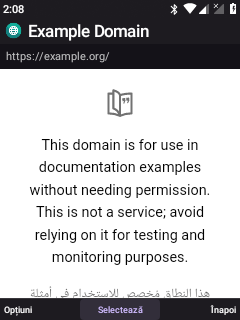
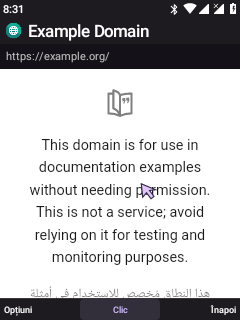
Add a built-in keypad cursor to the web browser

diff --git a/android81/visual-shell/tests/WebBrowserDeviceTests.java b/android81/visual-shell/tests/WebBrowserDeviceTests.java
@@ -20,6 +20,7 @@ public final class WebBrowserDeviceTests extends Instrumentation {
     private volatile boolean running;
     private int checks;
     private final AtomicInteger images=new AtomicInteger();
+    private final AtomicInteger links=new AtomicInteger();
     private PowerManager.WakeLock awake;
     private void check(boolean value,String why){if(!value)throw new AssertionError(why);checks++;}
     private UiAutomation automation(){return getUiAutomation(UiAutomation.FLAG_DONT_SUPPRESS_ACCESSIBILITY_SERVICES);}
@@ -36,14 +37,23 @@ public final class WebBrowserDeviceTests extends Instrumentation {
     private AccessibilityNodeInfo await(String text){long end=SystemClock.elapsedRealtime()+20000;AccessibilityNodeInfo found;do{found=node(text);if(found!=null)return found;SystemClock.sleep(100);}while(SystemClock.elapsedRealtime()<end);throw new AssertionError("Visible browser content missing: "+text);}
     private void visible(String text){AccessibilityNodeInfo found=await(text);found.recycle();checks++;}
     private void key(int code){long now=SystemClock.uptimeMillis();check(automation().injectInputEvent(new KeyEvent(now,now,0,code,0),true),"key down injected");check(automation().injectInputEvent(new KeyEvent(now,SystemClock.uptimeMillis(),1,code,0),true),"key up injected");SystemClock.sleep(80);}
+    private void held(int code,long duration,boolean canceled){
+        long now=SystemClock.uptimeMillis();check(automation().injectInputEvent(new KeyEvent(now,now,0,code,0),true),"held down injected");
+        SystemClock.sleep(duration);
+        check(automation().injectInputEvent(new KeyEvent(now,SystemClock.uptimeMillis(),1,code,0,0,-1,0,canceled?KeyEvent.FLAG_CANCELED:0),true),"held up injected");SystemClock.sleep(250);
+    }
+    private void open(String url){getTargetContext().startActivity(new Intent(getTargetContext(),WebBrowserActivity.class).setData(Uri.parse(url)).addFlags(Intent.FLAG_ACTIVITY_NEW_TASK));}
+    private void close(){key(KeyEvent.KEYCODE_MENU);visible("Cursor ·");for(int i=0;i<10;i++)key(KeyEvent.KEYCODE_DPAD_DOWN);visible("Închide");key(KeyEvent.KEYCODE_DPAD_CENTER);}
     private void fixture()throws IOException{
         server=new ServerSocket(0,4,InetAddress.getByName("127.0.0.1"));running=true;
         serving=new Thread(new Runnable(){public void run(){while(running)try(Socket socket=server.accept()){
             socket.setSoTimeout(3000);BufferedReader input=new BufferedReader(new InputStreamReader(socket.getInputStream(),"UTF-8"));String request=input.readLine();if(request==null)continue;String path=request.split(" ")[1];for(int i=0;i<40;i++){String line=input.readLine();if(line==null||line.isEmpty())break;}
             String type="text/html; charset=utf-8",body;
             if(path.equals("/image.svg")){images.incrementAndGet();type="image/svg+xml";body="<svg xmlns='http://www.w3.org/2000/svg' width='60' height='36'><rect width='60' height='36' fill='#6847aa'/><circle cx='30' cy='18' r='12' fill='#80d7cb'/></svg>";}
-            else if(path.equals("/next"))body="<!doctype html><meta name='viewport' content='width=device-width'><title>A doua pagină</title><p>Navigare reușită</p>";
-            else body="<!doctype html><meta charset='utf-8'><meta name='viewport' content='width=device-width'><title>KeyShell web test</title><body style='font:16px sans-serif'><span id='js'></span><script>document.getElementById('js').textContent='Script activ';</script><noscript>Script oprit</noscript><p id='image'>Se încarcă imaginea</p><img src='/image.svg' alt='Imagine test' onload=\"document.getElementById('image').textContent='Imagine încărcată'\"><p><a href='/next'>Pagina următoare</a></p></body>";
+            else if(path.equals("/next")){links.incrementAndGet();body="<!doctype html><meta charset='utf-8'><meta name='viewport' content='width=device-width'><title>A doua pagină</title><p>Navigare reușită</p>";}
+            else if(path.equals("/scroll"))body="<!doctype html><meta charset='utf-8'><meta name='viewport' content='width=device-width'><title>Test derulare</title><body style='height:1800px'><div id='scrolled' style='position:fixed;top:0;background:white'>Început pagină</div><script>onscroll=function(){document.getElementById('scrolled').textContent='Derulare confirmată: '+Math.round(scrollY)}</script></body>";
+            else if(path.equals("/editor"))body="<!doctype html><meta charset='utf-8'><meta name='viewport' content='width=device-width'><title>Test editor</title><input aria-label='Scrie aici' style='position:fixed;left:10%;width:75%;top:40%;height:20%' oninput=\"document.getElementById('value').textContent=this.value.length?'Text primit':'Câmp gol'\"><p id='value'>Câmp gol</p>";
+            else body="<!doctype html><meta charset='utf-8'><meta name='viewport' content='width=device-width'><title>KeyShell web test</title><body style='font:16px sans-serif'><span id='js'></span><script>document.getElementById('js').textContent='Script activ';</script><noscript>Script oprit</noscript><p id='image'>Se încarcă imaginea</p><img src='/image.svg' alt='Imagine test' onload=\"document.getElementById('image').textContent='Imagine încărcată'\"><a style='position:fixed;left:5%;right:5%;top:45%;padding:12px 0;background:#ddd' href='/next'>Pagina următoare</a></body>";
             byte[] bytes=body.getBytes("UTF-8");OutputStream out=socket.getOutputStream();out.write(("HTTP/1.1 200 OK\r\nContent-Type: "+type+"\r\nContent-Length: "+bytes.length+"\r\nConnection: close\r\nCache-Control: no-store\r\n\r\n").getBytes("US-ASCII"));out.write(bytes);out.flush();
         }catch(IOException error){if(!running)return;}}},"KeyShell-web-fixture");serving.setDaemon(true);serving.start();
     }
@@ -58,13 +68,21 @@ public final class WebBrowserDeviceTests extends Instrumentation {
         check(!WebBrowserActivity.allowed("content://ro.leo.visual.files/leo/private"),"content navigation rejected");
         check(!WebBrowserActivity.allowed("https://name:password@example.org/"),"URL credentials rejected");
         fixture();String url="http://127.0.0.1:"+server.getLocalPort()+"/";
-        getTargetContext().startActivity(new Intent(getTargetContext(),WebBrowserActivity.class).setData(Uri.parse(url)).addFlags(Intent.FLAG_ACTIVITY_NEW_TASK|Intent.FLAG_ACTIVITY_CLEAR_TOP|Intent.FLAG_ACTIVITY_SINGLE_TOP));
+        open(url);
         visible("KeyShell web test");visible("Script activ");visible("Imagine încărcată");check(images.get()>0,"image requested over HTTP");capture("web-browser-fixture.png");
-        AccessibilityNodeInfo link=await("Pagina următoare");while(!link.isClickable()&&link.getParent()!=null){AccessibilityNodeInfo parent=link.getParent();link.recycle();link=parent;}try{check(link.performAction(AccessibilityNodeInfo.ACTION_CLICK),"HTML link activated");}finally{link.recycle();}
+        visible("Clic");held(KeyEvent.KEYCODE_DPAD_CENTER,500,true);check(links.get()==0,"canceled OK did not click");
+        key(KeyEvent.KEYCODE_DPAD_LEFT);key(KeyEvent.KEYCODE_DPAD_RIGHT);
+        held(KeyEvent.KEYCODE_DPAD_CENTER,650,false);
         visible("Navigare reușită");key(KeyEvent.KEYCODE_BACK);visible("Script activ");
-        key(KeyEvent.KEYCODE_MENU);visible("JavaScript · pornit");
-        for(int i=0;i<6;i++)key(KeyEvent.KEYCODE_DPAD_DOWN);key(KeyEvent.KEYCODE_DPAD_CENTER);visible("Script oprit");
-        key(KeyEvent.KEYCODE_MENU);visible("JavaScript · oprit");for(int i=0;i<9;i++)key(KeyEvent.KEYCODE_DPAD_DOWN);key(KeyEvent.KEYCODE_DPAD_CENTER);
+        check(links.get()==1,"held OK activated link once");
+        key(KeyEvent.KEYCODE_POUND);visible("Selectează");key(KeyEvent.KEYCODE_MENU);visible("Cursor · oprit");key(KeyEvent.KEYCODE_DPAD_CENTER);visible("Clic");
+        key(KeyEvent.KEYCODE_MENU);visible("Cursor · pornit");visible("JavaScript · pornit");
+        for(int i=0;i<7;i++)key(KeyEvent.KEYCODE_DPAD_DOWN);key(KeyEvent.KEYCODE_DPAD_CENTER);visible("Script oprit");close();
+        open(url+"scroll");visible("Început pagină");held(KeyEvent.KEYCODE_DPAD_DOWN,1400,false);visible("Derulare confirmată");SystemClock.sleep(300);
+        AccessibilityNodeInfo scrolled=await("Derulare confirmată");String stopped;try{CharSequence value=scrolled.getText();stopped=(value!=null?value:scrolled.getContentDescription()).toString();}finally{scrolled.recycle();}
+        SystemClock.sleep(350);visible(stopped);capture("web-browser-scroll.png");close();
+        open(url+"editor");visible("Câmp gol");key(KeyEvent.KEYCODE_DPAD_CENTER);visible("Selectează");SystemClock.sleep(450);key(KeyEvent.KEYCODE_2);key(KeyEvent.KEYCODE_DPAD_CENTER);visible("Text primit");capture("web-browser-editor.png");
+        key(KeyEvent.KEYCODE_MENU);visible("Cursor · oprit");key(KeyEvent.KEYCODE_DPAD_CENTER);visible("Clic");close();
         result.putString("result","PASS "+checks+" graphical browser checks");code=-1;
     }catch(Throwable error){result.putString("result","FAIL after "+checks+" checks, image requests="+images.get()+": "+error);StringWriter text=new StringWriter();error.printStackTrace(new PrintWriter(text));result.putString("trace",text.toString());try{capture("web-browser-failure.png");}catch(Throwable ignored){}
     }finally{running=false;if(server!=null)try{server.close();}catch(IOException ignored){}if(awake!=null&&awake.isHeld())awake.release();}

diff --git a/android81/visual-shell/WebBrowserActivity.java b/android81/visual-shell/WebBrowserActivity.java
@@ -17,6 +17,7 @@ public final class WebBrowserActivity extends LeoActivity {
     private WebView web;
     private ProgressBar progress;
     private TextView location;
+    private WebCursorView cursor;
     private String current="https://example.org/";
     private boolean javascript=true;
     private int zoom=120;
@@ -52,28 +53,36 @@ public final class WebBrowserActivity extends LeoActivity {
                 public boolean onShowFileChooser(WebView view,ValueCallback<Uri[]> callback,FileChooserParams params){callback.onReceiveValue(null);return true;}
             });
             web.setDownloadListener(new DownloadListener(){public void onDownloadStart(final String url,String agent,String disposition,String mime,long bytes){download(url);}});
-            root.addView(web,new LinearLayout.LayoutParams(-1,0,1));
+            FrameLayout page=new FrameLayout(this);
+            page.addView(web,new FrameLayout.LayoutParams(-1,-1));
+            cursor=new WebCursorView(this,web,new WebCursorView.Listener(){public void changed(boolean enabled){cursorFooter();}});
+            if(state!=null)cursor.restore(state.getBoolean("cursor",true),state.getFloat("cursor_x",.5f),state.getFloat("cursor_y",.5f));
+            page.addView(cursor,new FrameLayout.LayoutParams(-1,-1));
+            root.addView(page,new LinearLayout.LayoutParams(-1,0,1));
             left=new Runnable(){public void run(){menu();}};
-            back=new Runnable(){public void run(){if(web.canGoBack())web.goBack();else finish();}};
-            footer(L.t("Opțiuni"),L.t("Selectează"),L.t("Înapoi"));
+            back=new Runnable(){public void run(){cursor.suspend();if(web.canGoBack())web.goBack();else finish();}};
+            cursorFooter();
             if(state==null||web.restoreState(state)==null)load(current);
-            web.requestFocus();
+            if(cursor.enabled())cursor.requestFocus();else web.requestFocus();
         }catch(RuntimeException unavailable){errorPage(L.t("Browser web"),L.t("Motorul web nu poate porni"),new Runnable(){public void run(){recreate();}});}
     }
     static boolean allowed(String url){try{BrowserRules.checked(url);return true;}catch(IOException invalid){return false;}}
-    private void load(String url){if(!allowed(url)){notice(L.t("Doar adrese HTTP / HTTPS"));return;}current=url;location.setText(url);web.loadUrl(url);}
+    private void load(String url){if(!allowed(url)){notice(L.t("Doar adrese HTTP / HTTPS"));return;}if(cursor!=null)cursor.suspend();current=url;location.setText(url);web.loadUrl(url);}
     protected void onNewIntent(Intent intent){super.onNewIntent(intent);setIntent(intent);if(intent.getData()!=null&&web!=null)load(intent.getDataString());}
-    protected void onSaveInstanceState(Bundle state){state.putString("url",current);state.putInt("zoom",zoom);state.putBoolean("javascript",javascript);if(web!=null)web.saveState(state);super.onSaveInstanceState(state);}
+    protected void onSaveInstanceState(Bundle state){state.putString("url",current);state.putInt("zoom",zoom);state.putBoolean("javascript",javascript);if(cursor!=null){state.putBoolean("cursor",cursor.enabled());state.putFloat("cursor_x",cursor.fractionX());state.putFloat("cursor_y",cursor.fractionY());}if(web!=null)web.saveState(state);super.onSaveInstanceState(state);}
+    private void cursorFooter(){footer(L.t("Opțiuni"),L.t(cursor.enabled()?"Clic":"Selectează"),L.t("Înapoi"));}
     private void address(){startActivity(new Intent(this,BrowserHubActivity.class).putExtra("edit_address",true).putExtra("address",current));}
     private void menu(){
-        options(L.t("Browser web"),new String[]{L.t("Adresă / căutare"),L.t("Reîncarcă"),L.t("Oprește încărcarea"),L.t("Text mai mare"),L.t("Text mai mic"),L.t("Înainte"),javascript?L.t("JavaScript · pornit"):L.t("JavaScript · oprit"),L.t("Mod text"),L.t("Ajutor"),L.t("Închide")},new Choice(){public void pick(int index){
+        if(cursor!=null)cursor.suspend();
+        options(L.t("Browser web"),new String[]{L.t(cursor.enabled()?"Cursor · pornit":"Cursor · oprit"),L.t("Adresă / căutare"),L.t("Reîncarcă"),L.t("Oprește încărcarea"),L.t("Text mai mare"),L.t("Text mai mic"),L.t("Înainte"),javascript?L.t("JavaScript · pornit"):L.t("JavaScript · oprit"),L.t("Mod text"),L.t("Ajutor"),L.t("Închide")},new Choice(){public void pick(int row){
+            if(row==0){cursor.setCursorEnabled(!cursor.enabled());return;}int index=row-1;
             if(index==0)address();else if(index==1)web.reload();else if(index==2)web.stopLoading();
             else if(index==3||index==4){zoom=Math.max(80,Math.min(220,zoom+(index==3?10:-10)));web.getSettings().setTextZoom(Math.round(zoom*Appearance.textScale(WebBrowserActivity.this)));}
             else if(index==5){if(web.canGoForward())web.goForward();}
             else if(index==6){javascript=!javascript;web.getSettings().setJavaScriptEnabled(javascript);web.reload();}
             else if(index==7)startActivity(new Intent(WebBrowserActivity.this,BrowserActivity.class).setData(Uri.parse(current)));
             else if(index==9)finish();
-            else options(L.t("Ajutor Browser"),new String[]{L.t("D-pad · selectare și derulare"),L.t("OK · deschide linkul selectat"),L.t("Meniu dedicat → Mouse din taste"),L.t("# · oprește mouse-ul"),L.t("Înapoi · pagina anterioară")},new Choice(){public void pick(int row){}});
+            else options(L.t("Ajutor Browser"),new String[]{L.t("Săgeți · deplasează cursorul"),L.t("OK · clic pe pagină"),L.t("Margini sus / jos · derulare"),L.t("# · cursor pornit / oprit"),L.t("Câmp text · cursorul se ascunde"),L.t("Opțiuni → Cursor · revino la mouse"),L.t("Înapoi · pagina anterioară")},new Choice(){public void pick(int row){}});
         }});
     }
     private void download(final String url){
@@ -81,6 +90,8 @@ public final class WebBrowserActivity extends LeoActivity {
         options(L.t("Descarcă fișierul?"),new String[]{L.t("Anulează"),L.t("Descarcă")},new Choice(){public void pick(int index){if(index!=1)return;try{boolean wifi=getSharedPreferences("downloads",0).getBoolean("wifi",true);((DownloadManager)getSystemService(DOWNLOAD_SERVICE)).enqueue(DownloadsActivity.request(url,wifi));notice(L.t("Descărcare programată"));}catch(RuntimeException failed){notice(L.t("Descărcarea nu a putut fi programată"));}}});
     }
     protected void onResume(){super.onResume();if(web!=null){web.getSettings().setTextZoom(Math.round(zoom*Appearance.textScale(this)));web.onResume();}}
-    protected void onPause(){if(web!=null)web.onPause();super.onPause();}
+    public boolean dispatchKeyEvent(KeyEvent event){if(isJackNavigationNoise(event))return true;if(cursor!=null&&cursor.key(event))return true;return super.dispatchKeyEvent(event);}
+    public void onWindowFocusChanged(boolean focus){super.onWindowFocusChanged(focus);if(!focus&&cursor!=null)cursor.suspend();}
+    protected void onPause(){if(cursor!=null)cursor.suspend();if(web!=null)web.onPause();super.onPause();}
     protected void onDestroy(){if(web!=null){web.stopLoading();if(web.getParent() instanceof ViewGroup)((ViewGroup)web.getParent()).removeView(web);web.destroy();web=null;}super.onDestroy();}
 }

diff --git a/android81/visual-shell/WebCursorView.java b/android81/visual-shell/WebCursorView.java
@@ -1,0 +1,113 @@
+package ro.leo.visual;
+
+import android.content.Context;
+import android.graphics.*;
+import android.os.SystemClock;
+import android.view.*;
+import android.view.inputmethod.InputMethodManager;
+import android.webkit.WebView;
+
+/** Page-local keypad pointer. Nothing is scheduled while the pointer is idle. */
+final class WebCursorView extends View {
+    interface Listener { void changed(boolean enabled); }
+    private final WebView web;
+    private final Listener listener;
+    private final Paint paint=new Paint(Paint.ANTI_ALIAS_FLAG);
+    private final Path arrow=new Path();
+    private final KeyRelease click=new KeyRelease(), toggle=new KeyRelease();
+    private final float scale;
+    private boolean enabled=true, positioned;
+    private float x,y,restoreX=.5f,restoreY=.5f,tapX,tapY;
+    private int direction;
+    private long since,tapDown;
+    private final Runnable repeat=new Runnable(){public void run(){
+        if(!enabled||direction==0||!hasWindowFocus()||!isShown()){stopMoving();return;}
+        long held=SystemClock.uptimeMillis()-since;
+        move(direction,Math.max(4,Math.round((held>=700?16:held>=350?10:6)*scale)));
+        postDelayed(this,40);
+    }};
+    private final Runnable afterTap=new Runnable(){public void run(){
+        if(!isShown()||!hasWindowFocus())return;
+        WebView.HitTestResult hit=web.getHitTestResult();
+        if(web.onCheckIsTextEditor()||hit!=null&&hit.getType()==WebView.HitTestResult.EDIT_TEXT_TYPE)setCursorEnabled(false);
+        else if(enabled)requestFocus();
+    }};
+    private final Runnable releaseTap=new Runnable(){public void run(){
+        if(tapDown==0)return;
+        touch(MotionEvent.ACTION_UP);tapDown=0;postDelayed(afterTap,120);
+    }};
+    WebCursorView(Context context,WebView web,Listener listener){
+        super(context);this.web=web;this.listener=listener;scale=getResources().getDisplayMetrics().density;
+        setFocusable(true);setFocusableInTouchMode(true);setImportantForAccessibility(IMPORTANT_FOR_ACCESSIBILITY_NO);
+        arrow.moveTo(1,1);arrow.lineTo(3,19);arrow.lineTo(8,13);arrow.lineTo(14,21);
+        arrow.lineTo(18,18);arrow.lineTo(12,10);arrow.lineTo(20,9);arrow.close();
+    }
+    boolean enabled(){return enabled;}
+    float fractionX(){return getWidth()>1?x/(getWidth()-1):restoreX;}
+    float fractionY(){return getHeight()>1?y/(getHeight()-1):restoreY;}
+    void restore(boolean enabled,float x,float y){this.enabled=enabled;setFocusable(enabled);restoreX=Math.max(0,Math.min(1,x));restoreY=Math.max(0,Math.min(1,y));positioned=false;}
+    void setCursorEnabled(boolean value){
+        suspend();enabled=value;setFocusable(enabled);invalidate();
+        if(enabled){requestFocus();((InputMethodManager)getContext().getSystemService(Context.INPUT_METHOD_SERVICE)).hideSoftInputFromWindow(getWindowToken(),0);}
+        else web.requestFocus();
+        listener.changed(enabled);
+    }
+    protected void onSizeChanged(int w,int h,int oldw,int oldh){
+        super.onSizeChanged(w,h,oldw,oldh);
+        float fx=positioned&&oldw>1?x/(oldw-1):restoreX,fy=positioned&&oldh>1?y/(oldh-1):restoreY;
+        x=Math.max(0,Math.min(w-1,fx*(w-1)));y=Math.max(0,Math.min(h-1,fy*(h-1)));positioned=true;
+    }
+    protected void onDraw(Canvas canvas){
+        if(!enabled)return;
+        canvas.save();canvas.translate(x,y);
+        canvas.scale(x>getWidth()-22*scale?-scale:scale,y>getHeight()-24*scale?-scale:scale);
+        paint.setStyle(Paint.Style.FILL);paint.setColor(0xffdfbdff);canvas.drawPath(arrow,paint);
+        paint.setStyle(Paint.Style.STROKE);paint.setStrokeWidth(1.5f);paint.setColor(0xff1a1028);canvas.drawPath(arrow,paint);
+        canvas.restore();
+    }
+    boolean key(KeyEvent event){
+        int key=event.getKeyCode();
+        // Keep # available to the keypad IME while editing an HTML field.
+        if(key==KeyEvent.KEYCODE_POUND&&!web.onCheckIsTextEditor()){
+            stopMoving();if(toggle.accept(event))setCursorEnabled(!enabled);return true;
+        }
+        if(!enabled)return false;
+        boolean arrow=key==KeyEvent.KEYCODE_DPAD_UP||key==KeyEvent.KEYCODE_DPAD_DOWN||key==KeyEvent.KEYCODE_DPAD_LEFT||key==KeyEvent.KEYCODE_DPAD_RIGHT;
+        if(arrow){
+            if(event.getAction()==KeyEvent.ACTION_UP){if(direction==key)stopMoving();}
+            else if(event.getAction()==KeyEvent.ACTION_DOWN&&event.getRepeatCount()==0){
+                stopMoving();click.reset();direction=key;since=SystemClock.uptimeMillis();move(key,Math.max(4,Math.round(8*scale)));postDelayed(repeat,180);
+            }
+            return true;
+        }
+        if(key==KeyEvent.KEYCODE_DPAD_CENTER||key==KeyEvent.KEYCODE_ENTER){
+            stopMoving();if(click.accept(event))tap();return true;
+        }
+        return false;
+    }
+    private void move(int key,int step){
+        int dx=key==KeyEvent.KEYCODE_DPAD_LEFT?-step:key==KeyEvent.KEYCODE_DPAD_RIGHT?step:0;
+        int dy=key==KeyEvent.KEYCODE_DPAD_UP?-step:key==KeyEvent.KEYCODE_DPAD_DOWN?step:0;
+        x=Math.max(0,Math.min(getWidth()-1,x+dx));y=Math.max(0,Math.min(getHeight()-1,y+dy));
+        int margin=Math.max(2,Math.round(10*scale));
+        if(dy<0&&y<=margin||dy>0&&y>=getHeight()-1-margin)web.scrollBy(0,dy*3);
+        if(dx<0&&x<=margin||dx>0&&x>=getWidth()-1-margin)web.scrollBy(dx*3,0);
+        invalidate();
+    }
+    private void tap(){
+        if(tapDown!=0)return;
+        removeCallbacks(afterTap);tapX=x;tapY=y;tapDown=SystemClock.uptimeMillis();
+        touch(MotionEvent.ACTION_DOWN);postDelayed(releaseTap,60);
+    }
+    private void touch(int action){
+        MotionEvent event=MotionEvent.obtain(tapDown,SystemClock.uptimeMillis(),action,tapX,tapY,0);
+        event.setSource(InputDevice.SOURCE_TOUCHSCREEN);
+        try{web.dispatchTouchEvent(event);}finally{event.recycle();}
+    }
+    private void stopMoving(){direction=0;removeCallbacks(repeat);}
+    void suspend(){
+        stopMoving();click.reset();toggle.reset();removeCallbacks(releaseTap);removeCallbacks(afterTap);
+        if(tapDown!=0){touch(MotionEvent.ACTION_CANCEL);tapDown=0;}
+    }
+    protected void onDetachedFromWindow(){suspend();super.onDetachedFromWindow();}
+}

diff --git a/android81/visual-shell/BrowserHubActivity.java b/android81/visual-shell/BrowserHubActivity.java
@@ -70,7 +70,7 @@ public final class BrowserHubActivity extends LeoActivity {
     private void help(){
         list(L.t("Ajutor Browser"),Arrays.asList(L.t("Browser web\nPagini cu imagini în interfața KeyShell."),L.t("Opera Mini\nBrowser separat. Compatibilitatea depinde de versiunea instalată."),
             L.t("Adresă / căutare\nDeschide un site sau caută cuvintele introduse."),
-            L.t("Mouse din taste\nMeniu dedicat → Mouse din taste. D-pad mișcă, OK apasă, # închide cursorul."),
+            L.t("Cursor în pagină\nSăgețile mișcă, OK apasă. La margini derulează. # comută cursorul; în editor folosește Opțiuni → Cursor."),
             L.t("Mod text\nLinkuri și text mai mare, fără JavaScript.")),0,new Choice(){public void pick(int index){}},"",null);
         back=new Runnable(){public void run(){home();}};
     }

diff --git a/android81/KEYSHELL-WEB-BROWSER.md b/android81/KEYSHELL-WEB-BROWSER.md
@@ -10,11 +10,21 @@ when returning to the hub.
 ## Graphical page
 
 The page uses shared KeyShell headers, address subtitle, progress, dialogs and
-softkeys. Options include address/search, reload, stop, text size, forward,
+softkeys. Options include cursor on/off, address/search, reload, stop, text size, forward,
 JavaScript on/off, text mode, help and close. Back follows page history.
-D-pad scrolls and selects where the page supports keyboard focus. The dedicated
-Menu exposes **Mouse din taste** for other controls: D-pad moves the pointer,
-OK clicks and `#` exits. Guidance stays inside Help.
+The graphical page starts with its own visible cursor. D-pad moves it, holding
+a direction accelerates it, and OK sends a single click on a complete uncanceled
+key release. Reaching an edge scrolls the page. `#` switches between cursor and
+normal keyboard navigation outside HTML text fields; **Options → Cursor** always
+provides the switch. Clicking a text field hides the cursor and returns focus to
+the WebView and keypad IME. The IME keeps its `#` mode shortcut while editing.
+Guidance stays inside Help.
+
+The pointer is a small page-local view, with no accessibility grant or global
+overlay required. It draws only when its position/mode changes and schedules
+movement only while a direction is held. Movement and pending touches stop when
+the window loses focus, the activity pauses or the view detaches. Cursor mode
+and relative position are saved with the page state.
 
 WebView runs in the existing `:webapps` process, keeping its runtime out of
 Home and sharing one WebView data directory on API 27. This does not loosen
@@ -62,11 +72,24 @@ of reusing its launcher alias.
 
 ## Validation
 
-The final KeyShell APK passed **188 daily UI checks**, **56 graphical browser
-checks**, **48 prior polish checks**, **72 theme checks**, and the physical
-keypad smoke. The host suite passed **69 checks**. The full Windows build
-compiled **279** sources; the DEX audit retained all **431** baseline dependency
-classes without duplicates.
+The cursor update passed **155 graphical browser checks** on the Nokia. These
+cover actual cursor clicks on links, canceled and held OK, normal navigation,
+edge scrolling and stopping after release, entering an HTML field with the keypad
+IME, and returning to the pointer through Options. The full Windows build
+compiled **280** sources; the DEX audit retained all **431** baseline dependency
+classes without additions or duplicates.
+
+Physical matrix-keypad scans also passed: left softkey opens the native address
+form/page, Right moves the cursor, OK follows a local HTTP link, Back restores the
+page, dedicated Menu opens/closes the global menu, `#` hides the cursor, and
+Options → Cursor restores it. External HTTPS rendered with the cursor visible.
+The standard Home/notifications/global-menu/Settings/tab smoke passed. Its first
+attempt hit the harness's six-second Home-start command limit; starting Home
+explicitly and rerunning completed all five routes.
+
+The preceding browser build (`03ccaac8…`) passed **188 daily UI checks**,
+**56 graphical browser checks**, **48 prior polish checks**, **72 theme checks**
+and the physical keypad smoke. Its host suite passed **69 checks**.
 
 The browser suite serves an isolated loopback HTTP fixture and checks actual
 JavaScript output, image load completion, a link, Back, disabling scripts and
@@ -85,7 +108,7 @@ python android81/smoke-leo-keypad.py --serial 695d
 ```
 
 Running KeyShell data update SHA-256:
[2 lines of base64/hex data omitted]
 The bundled system base is
[1 lines of base64/hex data omitted]
 The previous private clean ROM predates the browser. Resource measurements in
@@ -97,6 +120,8 @@ do not measure the separate WebView process.
 | Browser hub | HTTPS page | Local image/JavaScript fixture |
 | --- | --- | --- |
 | ![Native browser hub](screenshots/browser/hub.png) | ![External HTTPS page](screenshots/browser/https.png) | ![Graphical browser fixture](screenshots/browser/fixture.png) |
+
+![Physical-key cursor trial](screenshots/browser/cursor.png)
 
 After temporary test packages were removed, Home, appearance, accessibility,
 notification-listener access and IME settings matched the initial snapshot.

diff --git a/README.md b/README.md
@@ -38,7 +38,11 @@ The boot animation is a rendered preview. Select any thumbnail to open it at
 
 | Browser hub | HTTPS page | Browser image/JavaScript test |
 | :---: | :---: | :---: |
-| <a href="android81/screenshots/browser/hub.png"><img src="android81/screenshots/browser/hub.png" width="160" alt="Native browser hub with graphical browsing, text mode and optional Opera Mini"></a> | <a href="android81/screenshots/browser/https.png"><img src="android81/screenshots/browser/https.png" width="160" alt="External HTTPS page in the integrated browser"></a> | <a href="android81/screenshots/browser/fixture.png"><img src="android81/screenshots/browser/fixture.png" width="160" alt="Controlled local page showing a loaded image and executed JavaScript"></a> |
+| <a href="android81/screenshots/browser/hub.png"><img src="android81/screenshots/browser/hub.png" width="160" alt="Native browser hub with graphical browsing, text mode and optional Opera Mini"></a> | <a href="android81/screenshots/browser/https.png"><img src="android81/screenshots/browser/https.png" width="160" alt="External HTTPS page with the built-in keypad cursor"></a> | <a href="android81/screenshots/browser/fixture.png"><img src="android81/screenshots/browser/fixture.png" width="160" alt="Controlled local page showing the cursor, a loaded image and executed JavaScript"></a> |
+
+The browser starts with a visible cursor: D-pad moves it, OK clicks, and the
+page scrolls at its edges. `#` switches modes outside text fields; **Options →
+Cursor** restores the pointer after editing. See [browser controls and validation](android81/KEYSHELL-WEB-BROWSER.md).
 
 | Audio player · demo | Internet radio | Terminal |
 | :---: | :---: | :---: |
